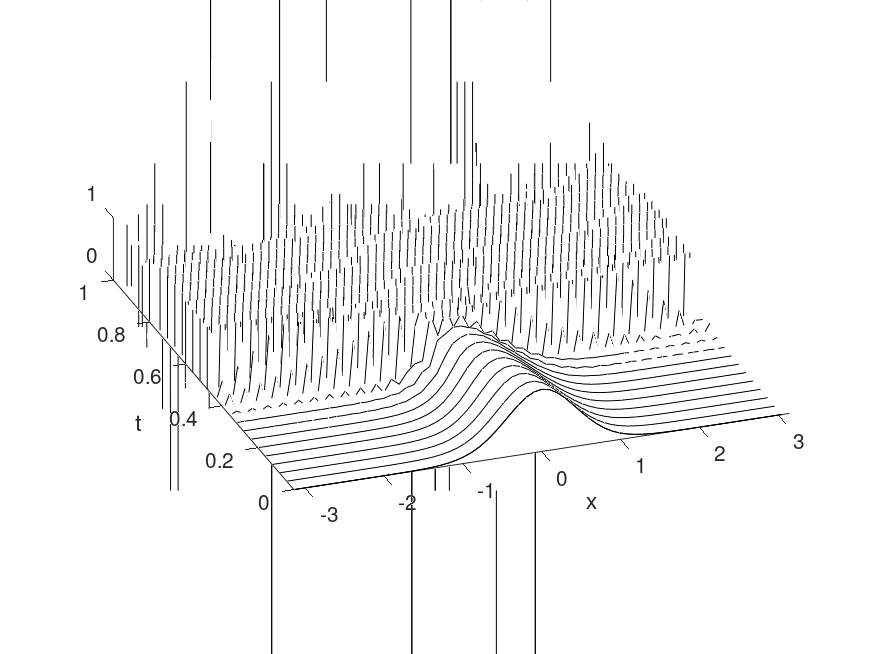
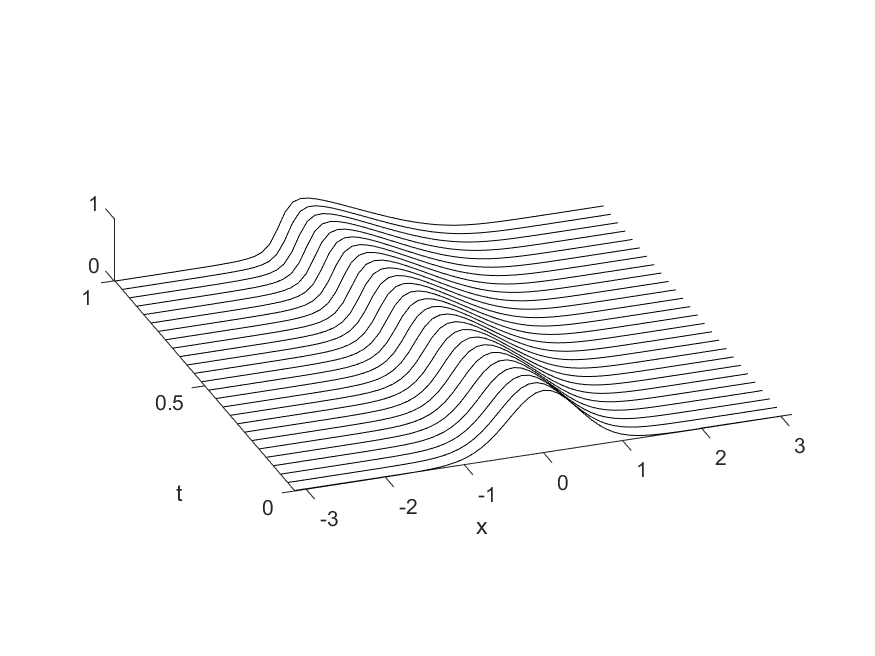
MATH6680/Exam1: Fixed integrating factor in `problem_1.m`.

diff --git a/2023/spring/MATH6680_ScientificComputationII/Exam1/problem_1.m b/2023/spring/MATH6680_ScientificComputationII/Exam1/problem_1.m
@@ -1,8 +1,13 @@
-clear all;
+% clear all;
+
+global epsilon k;
+
+epsilon = 0.03;
 
 N = 64;
-dt = .1/N^2;
+dt = .4/N^2;
 x = (2*pi/N)*(-N/2:N/2-1)';
+k = [0:N/2-1 0 -N/2+1:-1]';
 
 % Initial condition
 %
@@ -24,27 +29,28 @@ nmax = round(tmax/dt);
 u_plot = u;
 t_plot = 0;
 
-% RHS of the ODE
-%
-function y = fourier_burgers(t, V)
-    epsilon = 0.03;
-
-    n = size(V, 1);
-    k = [0:n/2-1 0 -n/2+1:-1]';
-
-    y = (1i * k / 2) .* exp(epsilon .* k.^2 .* t) .* fft(real(ifft( exp(-epsilon * k.^2 * t) .* V)).^2);
-end
 
 % RK4 integration
 %
 yn = V0;
 tn = 0;
 
+% Set to 1 to use integrating factor
+%
+integrating_factor = 1;
+
 for n = 1:nmax
-    k1 = fourier_burgers(tn, yn);
-    k2 = fourier_burgers(tn + dt/2, yn + dt * k1/2);
-    k3 = fourier_burgers(tn + dt/2, yn + dt * k2/2);
-    k4 = fourier_burgers(tn + dt, yn + dt * k3);
+    if integrating_factor == 1
+        k1 = fourier_burgers_if(tn, yn);
+        k2 = fourier_burgers_if(tn + dt/2, yn + dt * k1/2);
+        k3 = fourier_burgers_if(tn + dt/2, yn + dt * k2/2);
+        k4 = fourier_burgers_if(tn + dt, yn + dt * k3);
+    else 
+        k1 = fourier_burgers(tn, yn);
+        k2 = fourier_burgers(tn + dt/2, yn + dt * k1/2);
+        k3 = fourier_burgers(tn + dt/2, yn + dt * k2/2);
+        k4 = fourier_burgers(tn + dt, yn + dt * k3);
+    end
 
     tn = n*dt;
     yn = yn + 1/6 * (k1 + 2*k2 + 2*k3 + k4) * dt;
@@ -52,13 +58,18 @@ for n = 1:nmax
     % Keep track of various time steps for plotting
     %
     if mod(n, nplt) == 0
-        u_plot = [u_plot real(ifft(yn))];
+        if integrating_factor == 1
+            u_plot = [u_plot real(ifft(exp(-epsilon * k.^2 * (n-1)*dt) .* yn))];
+        else
+            u_plot = [u_plot real(ifft(yn))];
+        end
         t_plot = [t_plot tn];
     end
 end
 
 % Plot results
 %
+figure;
 waterfall(x, t_plot, u_plot')
 colormap([0 0 0])
 view(-20, 25)
@@ -70,3 +81,22 @@ set(gca, 'ztick', [0, 1])
 pbaspect([1 1 .13])
 
 print('-dpng', 'problem_1')
+
+
+%% RK4 RHS functions
+
+function y = fourier_burgers(t, V)
+    global epsilon k;
+
+    % Burgers equation in Fourier space without integrating factor
+    %
+    y = (1i * k / 2) .* fft(real(ifft(V)).^2) - epsilon * k.^2 .* V;
+end
+
+function y = fourier_burgers_if(t, V)
+    global epsilon k;
+
+    % Burgers equation in Fourier space with integrating factor
+    %
+    y = (1i * k / 2) .* exp(epsilon .* k.^2 .* t) .* fft(real(ifft( exp(-epsilon * k.^2 * t) .* V)).^2);
+end
